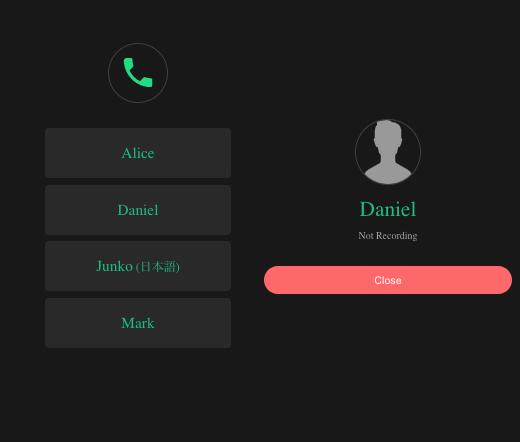
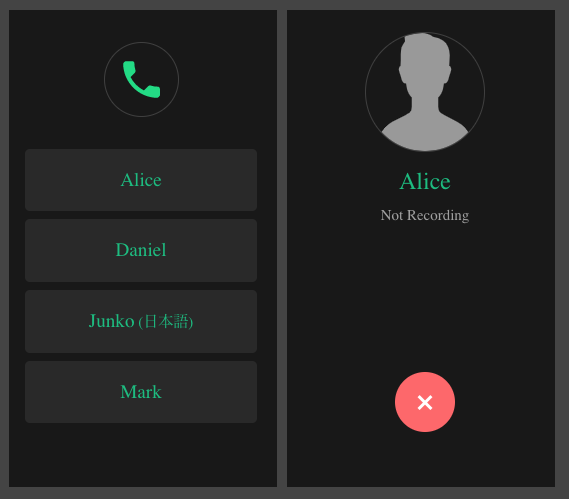
refactor code

diff --git a/pages/talk/[id].vue b/pages/talk/[id].vue
@@ -1,9 +1,11 @@
 <script setup>
+import ExitButton from '~~/components/ExitButton.vue';
+
 import person from '../../assets/person-svgrepo-com.svg'
 import contacts from '../../assets/contacts.json'
 
 const MAX_COUNT = 20
-const MIN_DECIBELS = -45
+const MIN_DECIBELS = -45 //-45
 
 const config = useRuntimeConfig()
 const route = useRoute()
@@ -192,6 +194,13 @@ async function speakMessage(msg) {
     utterThis.pitch = selectedPerson.value.voice.pitch
     utterThis.rate = selectedPerson.value.voice.rate
 
+    utterThis.onstart = () => {
+        console.log("[ start speech ]")
+    }
+    utterThis.onend = () => {
+        console.log("[ end speech ]")
+    }
+
     synth.speak(utterThis);
 
 }
@@ -263,7 +272,7 @@ onBeforeUnmount(() => {
                 <p>{{ isRecording ? 'Recording...' : 'Not Recording' }}</p>
             </div>
             <div class="action">
-                <button @click="handleClose" class="button">Close</button>
+                <ExitButton @click="handleClose" />
             </div>
         </div>
     </div>
@@ -274,8 +283,8 @@ onBeforeUnmount(() => {
     color: #ff6767;
 }
 .icon {
-    width: 100px;
-    height: 100px;
+    width: 120px;
+    height: 120px;
     object-fit: cover;
     box-sizing: border-box;
     border: 1px solid var(--color-border-hover);
@@ -283,12 +292,13 @@ onBeforeUnmount(() => {
 }
 .name {
     text-transform: capitalize;
-    font-size: 2rem;
+    font-size: 1.5rem;
     color: var(--color-text-green);
 }
 .container {
     position: relative;
     height: 100vh;
+    min-height: 500px;
     display: flex;
     justify-content: center;
     align-items: center;
@@ -297,10 +307,13 @@ onBeforeUnmount(() => {
     position: relative;
     width: 100%;
     max-width: 414px;
+    height: 100%;
+    min-height: 500px;
 }
 .content {
     position: relative;
-    margin-bottom: 2rem;
+    height: 50%;
+    min-height: 250px;
     display: flex;
     justify-content: center;
     flex-direction: column;
@@ -312,17 +325,18 @@ onBeforeUnmount(() => {
 
 .action {
     position: relative;
+    height: 50%;
+    min-height: 250px;
     display: flex;
     justify-content: center;
+    align-items: center;
 }
-.button {
-    appearance: none;
-    font-size: 1rem;
-    width: 90%;
-    padding: 0.75rem;
-    border: 0;
-    border-radius: 3rem;
-    background-color: #ff6767;
-    color: #fff;
+
+@media (max-height: 400px) {
+    .icon {
+        width: 100px;
+        height: 100px;
+    }
 }
+
 </style>

diff --git a/components/ExitButton.vue b/components/ExitButton.vue
@@ -1,0 +1,26 @@
+<script setup>
+const emit = defineEmits(['click'])
+</script>
+
+<template>
+    <button class="exit-button" @click="$emit('click')"><span>&#215;</span></button>
+</template>
+
+<style scoped>
+.exit-button {
+    font-family: Arial, Helvetica, sans-serif;
+    appearance: none;
+    background-color: #ff6767;
+    border: 0;
+    border-radius: 50%;
+    font-size: 2.2rem;
+    line-height: 100%;
+    color: #ffffff;
+    width: 60px;
+    height: 60px;
+    padding: 0;
+    box-sizing: border-box;
+    outline: none;
+    cursor: pointer;
+}
+</style>
